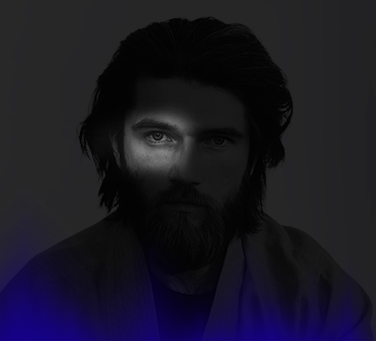
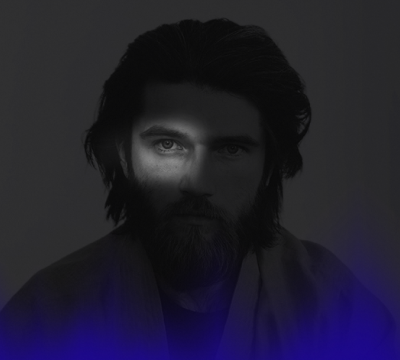
update

diff --git a/src/Components/Team/Team.tsx b/src/Components/Team/Team.tsx
@@ -42,7 +42,7 @@ const teamMembers = [
   },
   {
     id: 3,
-    image: "/Team/3.png",
+    image: "/Team/3.1.png",
     name: "Аксен Іванков",
     position: "Арт-директор, бренд-дизайнер",
     departmentImage: "/Team/department/sensor3.gif",
@@ -59,7 +59,7 @@ const teamMembers = [
   },
   {
     id: 4,
-    image: "/Team/4.png",
+    image: "/Team/4.1.png",
     name: "Аліна маленко",
     position: "Бренд-дизайнер, ілюстраторка",
     departmentImage: "/Team/department/sensor3.gif",
@@ -75,7 +75,7 @@ const teamMembers = [
   },
   {
     id: 5,
-    image: "/Team/5.png",
+    image: "/Team/5.1.png",
     name: "Ярослав Грінько",
     position: "Бренд-дизайнер",
     departmentImage: "/Team/department/sensor3.gif",
@@ -88,6 +88,78 @@ const teamMembers = [
         так довго, що вона врешті здається і йде на компроміс. Ярослав постійно
         вчиться - курси, статті, нові інструменти, тренди, - він усе пізнає, усе
         тестує, усе покращує.
+      </>
+    ),
+  },
+  {
+    id: 6,
+    image: "/Team/6.1.png",
+    name: "Таня Біла",
+    position: "Веб-розробка / Бренд-дизайнерка",
+    departmentImage: "/Team/department/sensor3.gif",
+    departmentAlt: "Poglyad",
+    description: (
+      <>
+        <span>ВІДДІЛ  ПОГЛЯДУ</span>
+        <br />
+        Суперсила Тані - з величезного обʼєму інфо про бізнес клієнта, а також
+        аналітики ринку, вибрати головну родзинку і зробити з нею символ, що
+        дуже просто передасть усе те складне. А ще Таня створює сайти, що
+        вантажаться швидше, ніж ви встигаєте згадати пароль. Структура, UX,
+        магія - це все до Тані.
+      </>
+    ),
+  },
+  {
+    id: 7,
+    image: "/Team/7.1.png",
+    name: "Марина",
+    position: "Фотографиня",
+    departmentImage: "/Team/department/sensor3.gif",
+    departmentAlt: "Poglyad",
+    description: (
+      <>
+        <span>ВІДДІЛ  ПОГЛЯДУ</span>
+        <br />
+        Марина вміє ловити не просто кадр, вона ловить людину. Її очі бачать
+        глибину, яку інші не помічають: емоцію, що сховалась у погляді,
+        тремтливий настрій, унікальний жест. А коли йдеться про зйомку компанії,
+        вона передає історію бізнесу через ледь вловимі рухи, деталі, світло,
+        атмосферу. Це не просто фото. Це “відчуй, хто ми”.
+      </>
+    ),
+  },
+  {
+    id: 8,
+    image: "/Team/8.1.png",
+    name: "Оля Трегуб",
+    position: "Копірайтерка",
+    departmentImage: "/Team/department/sensor2.gif",
+    departmentAlt: "Poglyad",
+    description: (
+      <>
+        <span style={{ textTransform: "uppercase" }}>
+          Відділ регулювання звуку
+        </span>
+        <br />
+        Генерує ідеї швидше, ніж ми встигаємо записувати. У неї всередині або
+        маленький всесвіт, або великий портал. Ми досі уточнюємо.
+      </>
+    ),
+  },
+  {
+    id: 9,
+    image: "/Team/9.1.png",
+    name: "Ангеліна",
+    position: "Ілюстраторка",
+    departmentImage: "/Team/department/sensor3.gif",
+    departmentAlt: "Poglyad",
+    description: (
+      <>
+        <span>ВІДДІЛ  ПОГЛЯДУ</span>
+        <br />
+        Створює стилі і справжні картини від руки, а ще персонажів і світи, які
+        хочеться обіймати. Навіть якщо це дракон з поганим настроєм.
       </>
     ),
   },
@@ -130,7 +202,9 @@ export default function Team() {
   const width = useWindowWidth();
 
   const duplicatedMembers =
-    width && width >= 500 ? [...teamMembers, ...teamMembers] : [...teamMembers];
+    width && width >= 500
+      ? [...teamMembers, ...teamMembers]
+      : [...teamMembers].slice(0, 5);
 
   return (
     <section className="team">

diff --git a/src/Components/Team/Team.css b/src/Components/Team/Team.css
@@ -53,7 +53,7 @@
   display: flex;
   gap: 70px;
   width: max-content;
-  animation: team-scroll 20s linear infinite;
+  animation: team-scroll 35s linear infinite;
   /* animation-play-state: paused; */
 }
 
@@ -227,6 +227,12 @@
 }
 
 @media (max-width: 500px) {
+  .team-img img{
+    height: auto;
+  }
+  .team-card-top{
+    padding: 15px 0 25px;
+  }
   .team-slider {
     display: flex;
     justify-content: center;
